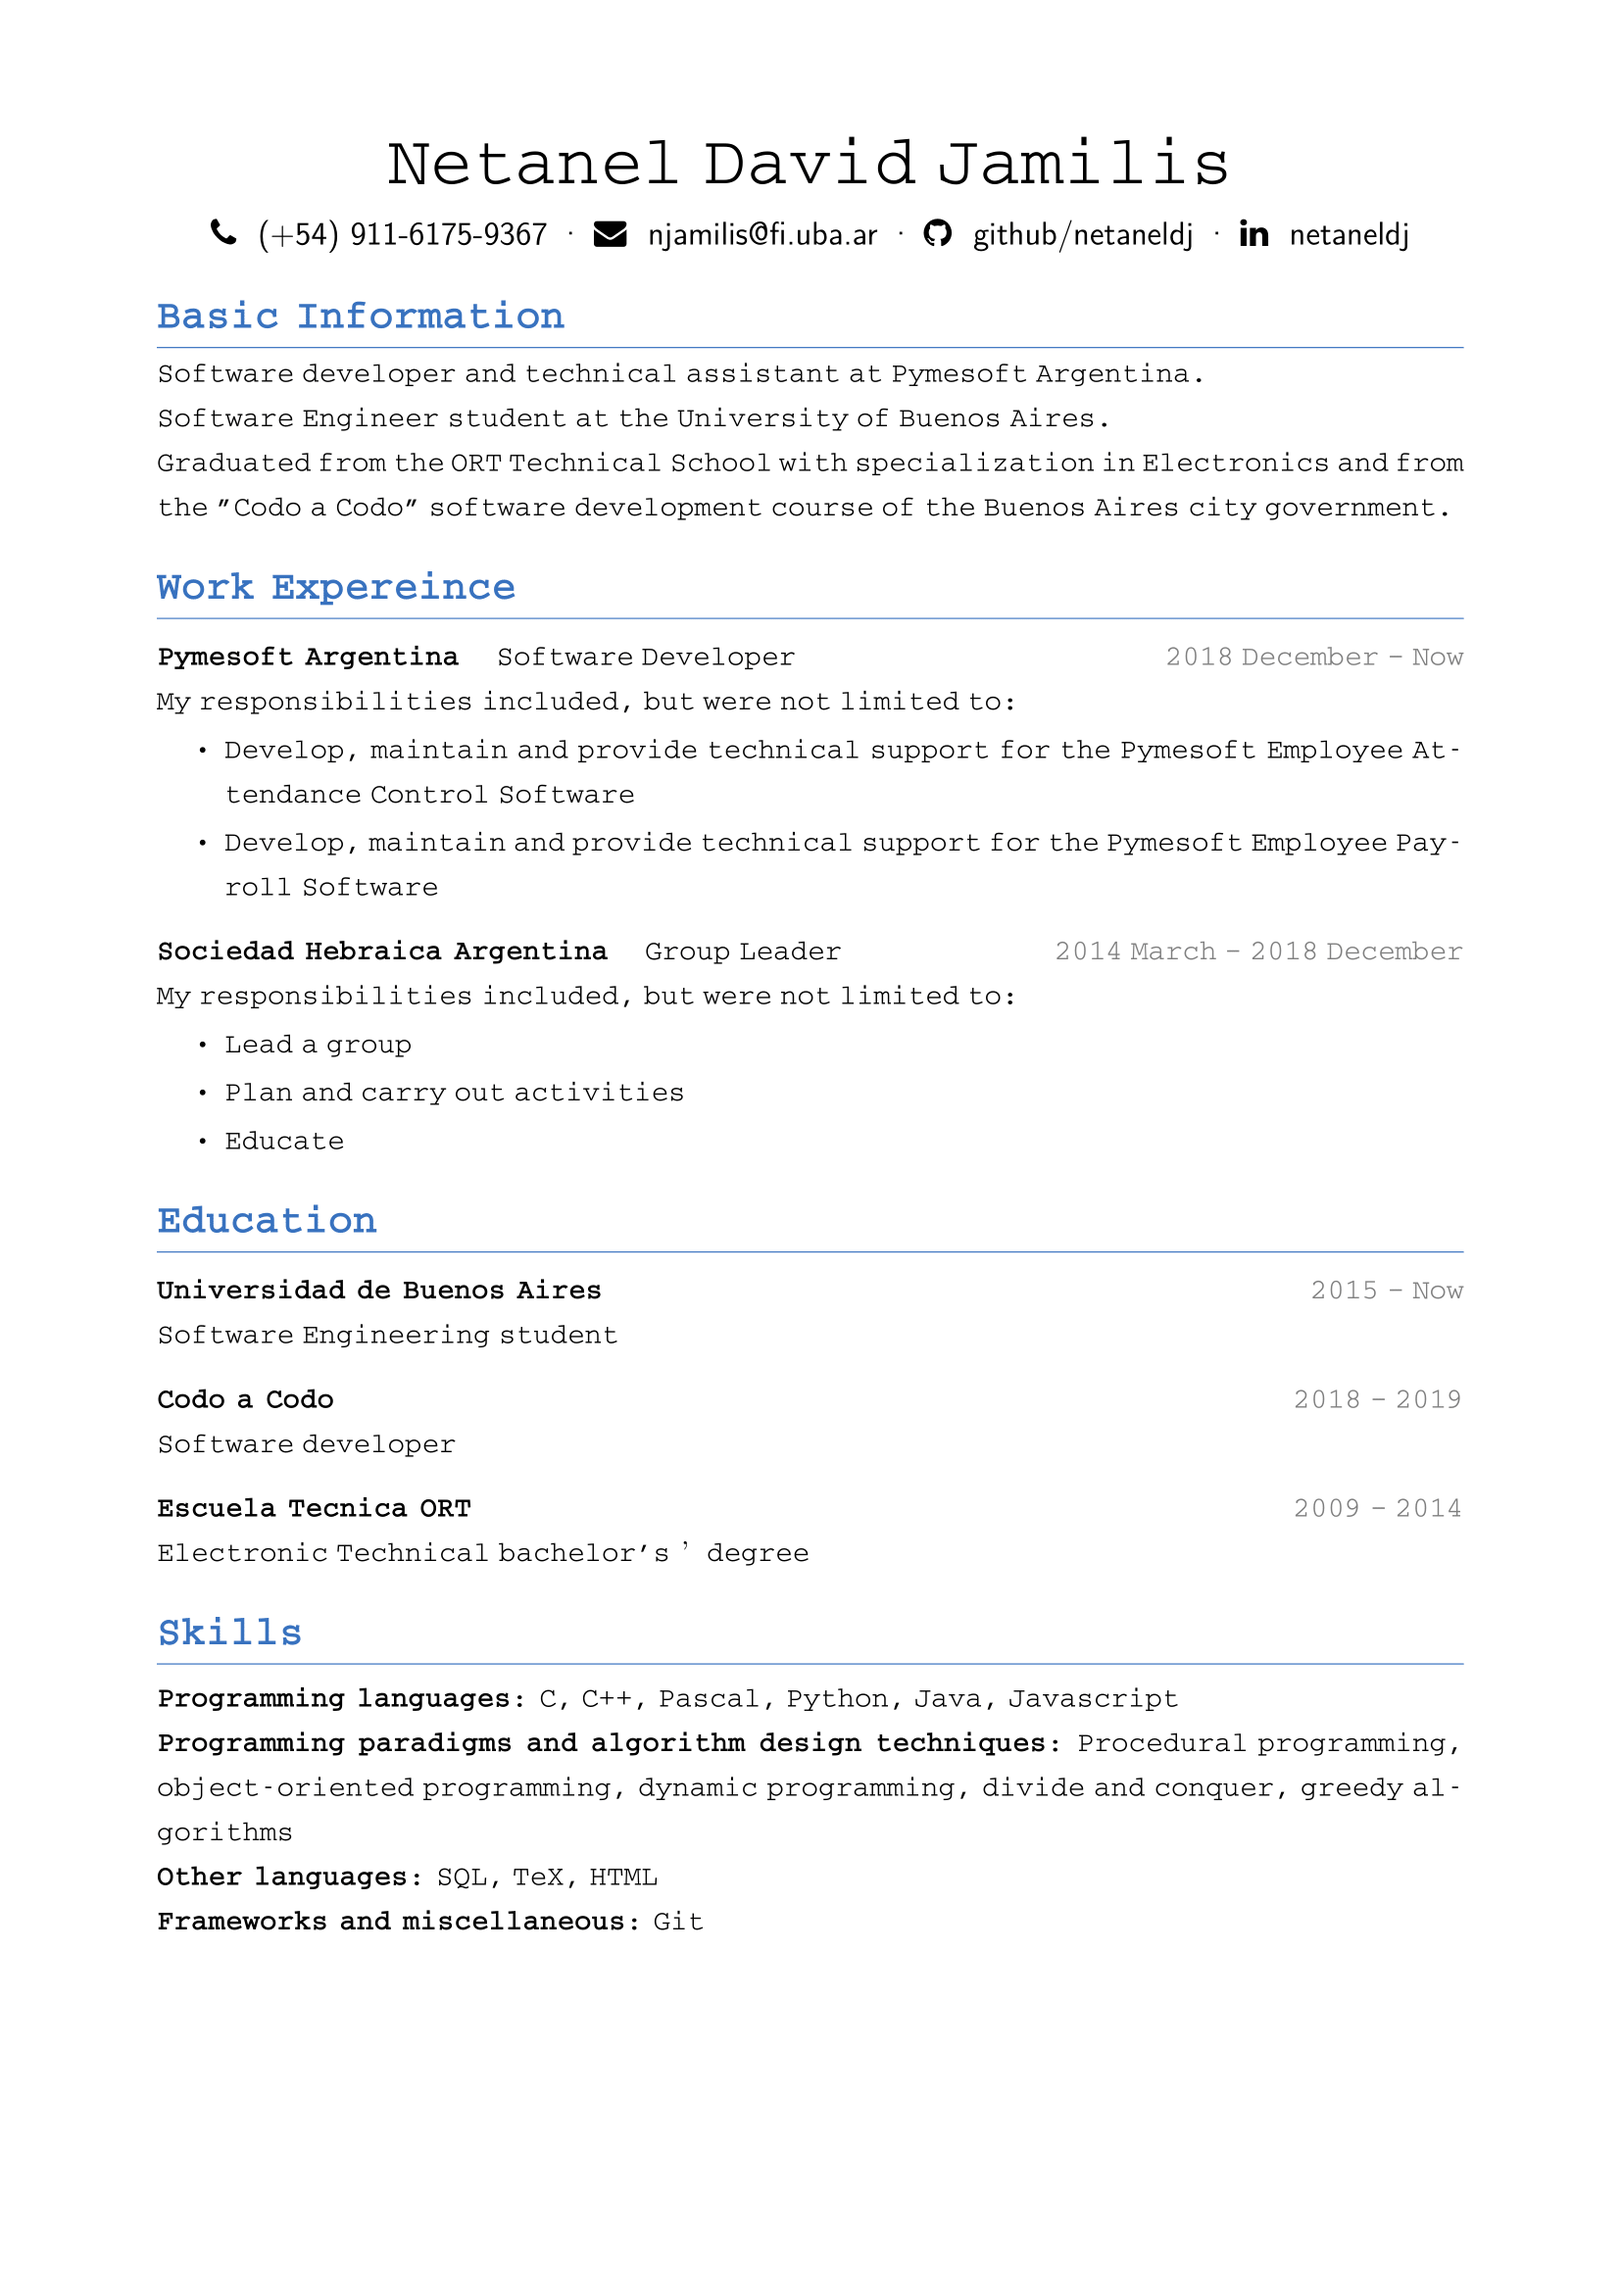
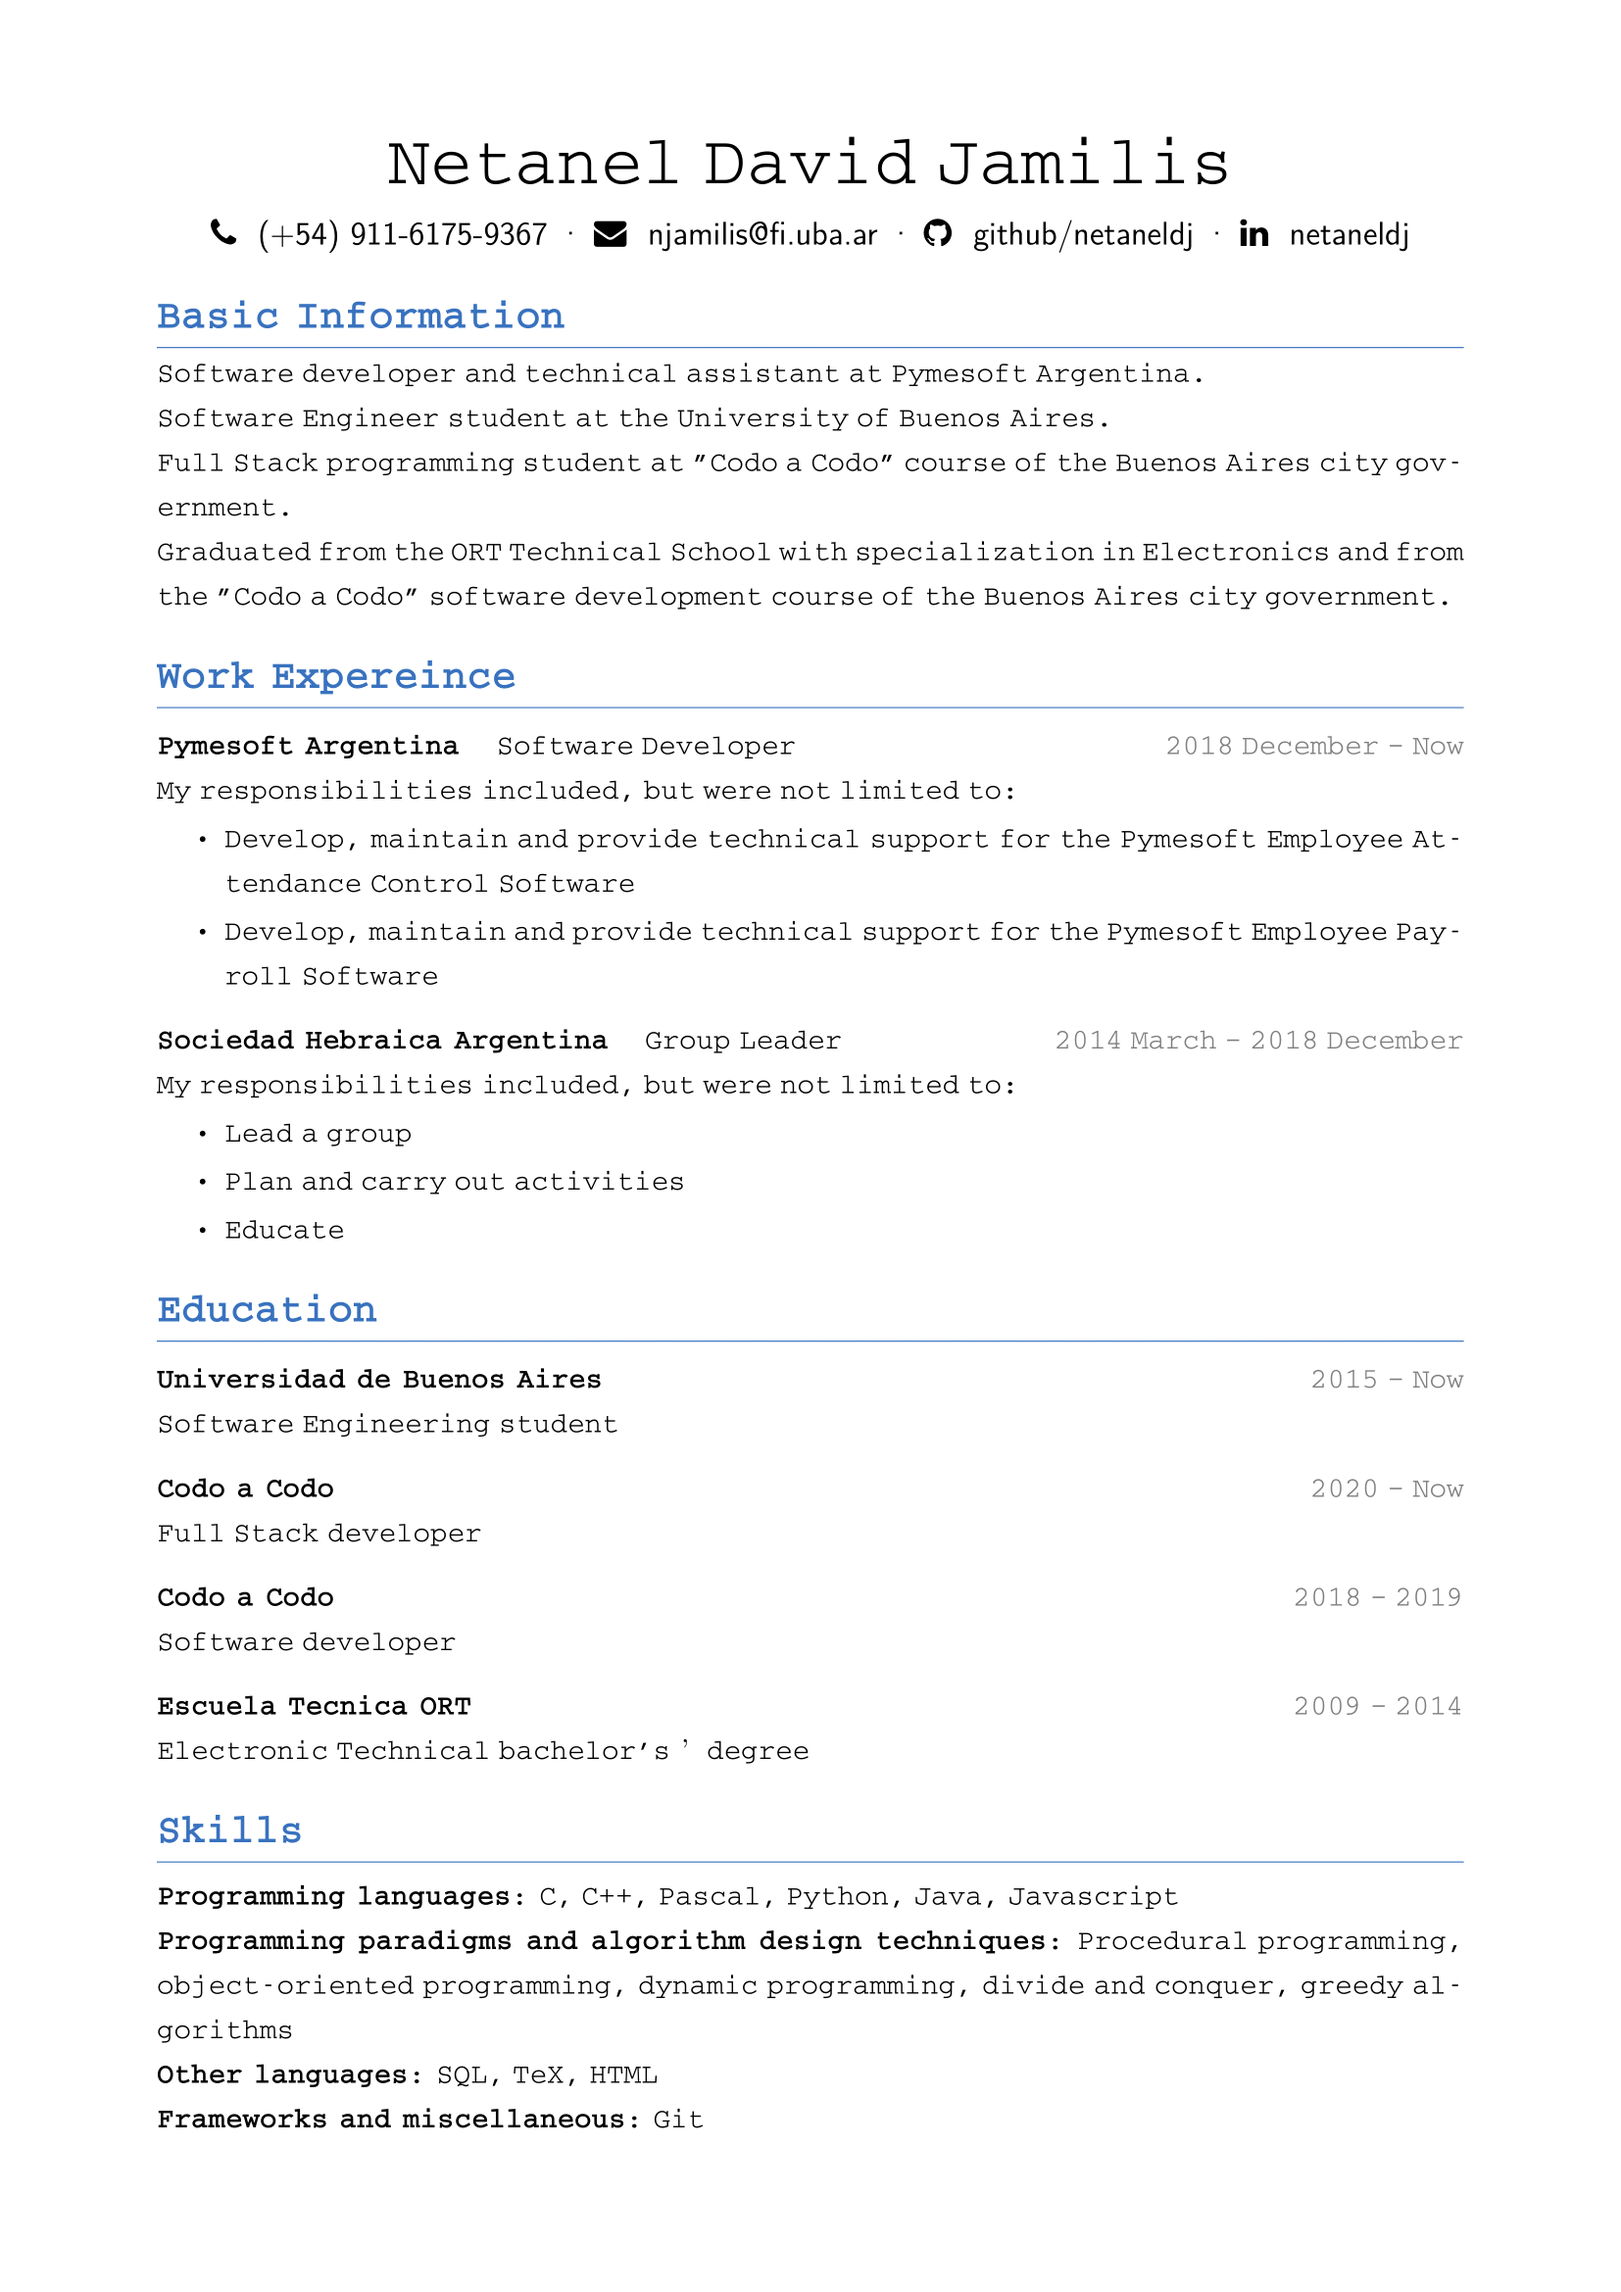
Update CV

diff --git a/source/main.tex b/source/main.tex
@@ -36,6 +36,7 @@
 \section{Basic Information}
 Software developer and technical assistant at Pymesoft Argentina.\newline
 Software Engineer student at the University of Buenos Aires.\newline
+Full Stack programming student at "Codo a Codo" course of the Buenos Aires city government.\newline
 Graduated from the ORT Technical School with specialization in Electronics and from the "Codo a Codo" software development course of the Buenos Aires city government.
 
 % ----------------------------------------------------------------------------- %
@@ -60,6 +61,9 @@ My responsibilities included, but were not limited to:
 
 \dateditem{\textbf{Universidad de Buenos Aires}}{2015 -- Now}
 Software Engineering student
+
+\dateditem{\textbf{Codo a Codo}}{2020 -- Now}
+Full Stack developer
 
 \dateditem{\textbf{Codo a Codo}}{2018 -- 2019}
 Software developer
